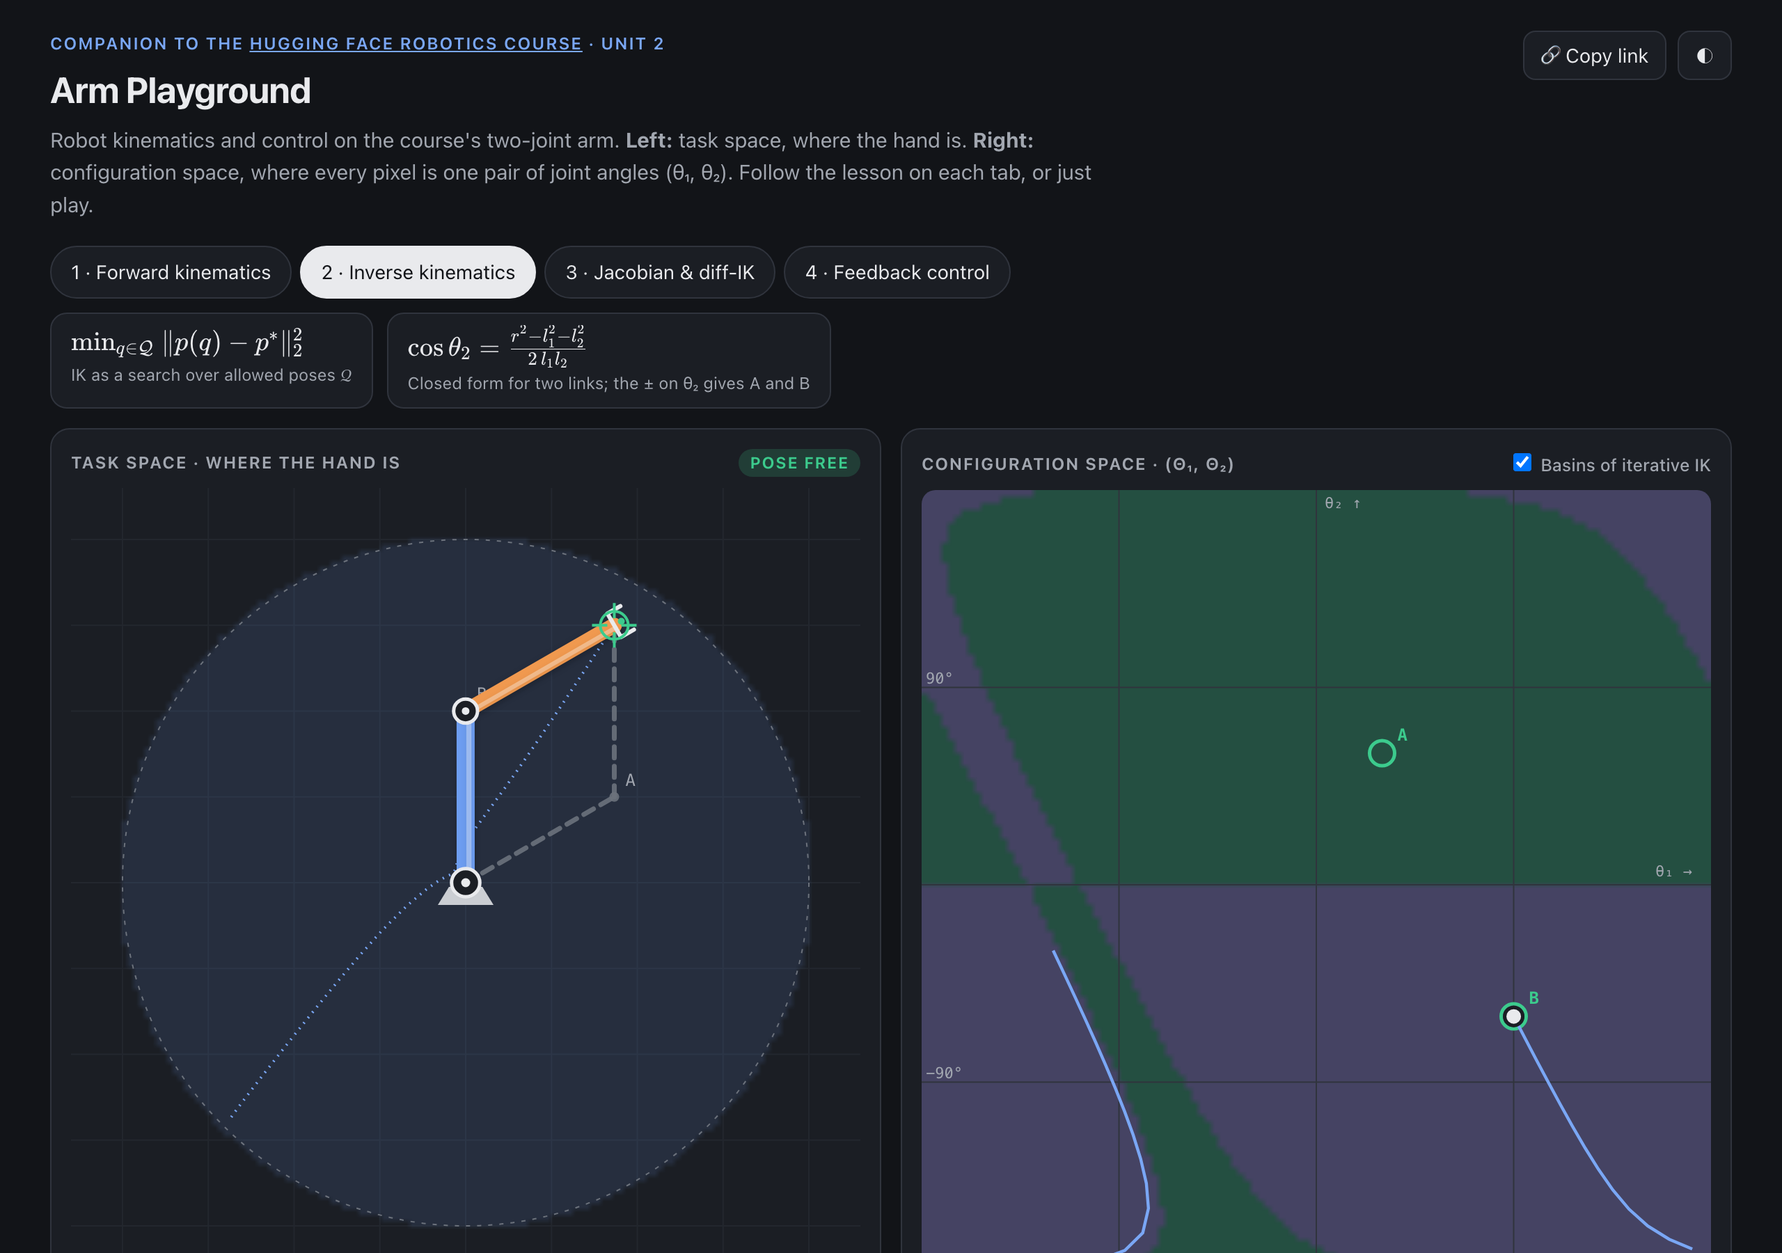
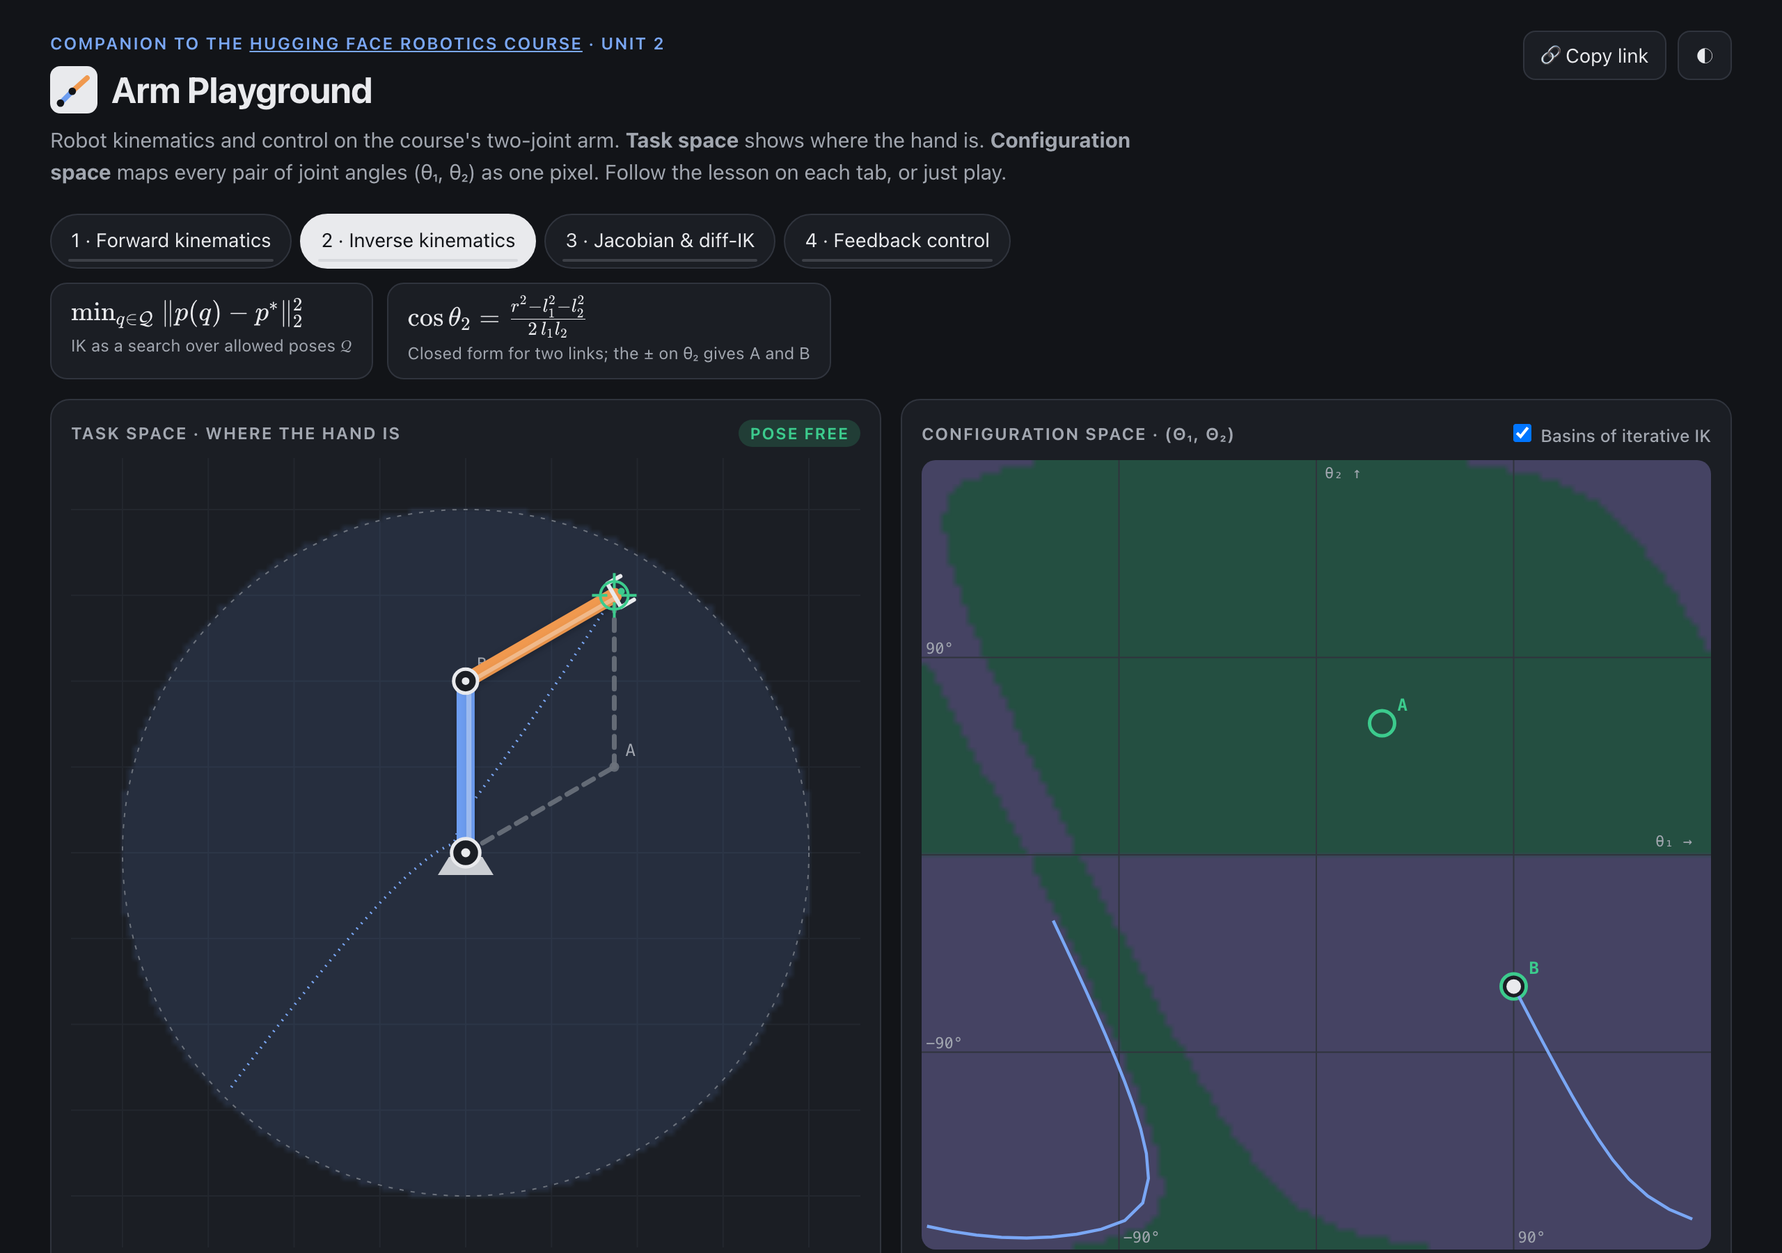
Design pass: mobile-first card order, tab progress, det J field, IK rings on the feedback map
- One CSS grid with named areas; on phones the order is arm, lesson, map,
  controls, math instead of both canvases and controls before the lesson
- Thin completion bar under each tab; arrow keys move between tabs
- Jacobian tab paints |det J| as a red field on the configuration map so
  singularities read as a gradient, not just two dashed lines
- Feedback tab shows the target's two IK solutions as rings on the map
- FK tab leaves a fading hand trail so moving one slider traces a circle
- Logo mark in the header; the arm animates awake from a folded pose on load
- Screenshots regenerated

diff --git a/index.html b/index.html
@@ -48,7 +48,8 @@ html, body { margin: 0; background: var(--bg); color: var(--ink);
 a { color: var(--accent); }
 .wrap { max-width: 1240px; margin: 0 auto; padding: 22px 16px 40px; }
 .top { display: flex; justify-content: space-between; align-items: flex-start; gap: 12px; flex-wrap: wrap; }
-.brand h1 { font-size: 26px; margin: 0; letter-spacing: -0.02em; }
+.brand h1 { font-size: 26px; margin: 0; letter-spacing: -0.02em; display: flex; align-items: center; gap: 10px; }
+.brand h1 svg { width: 34px; height: 34px; flex: none; }
 .brand .kicker { font-size: 12px; font-weight: 600; letter-spacing: 0.08em; text-transform: uppercase; color: var(--accent); margin-bottom: 4px; }
 .brand p { margin: 4px 0 0; color: var(--muted); max-width: 780px; }
 .actions { display: flex; gap: 8px; }
@@ -59,13 +60,17 @@ button:focus-visible, select:focus-visible, input:focus-visible { outline: 2px s
 button.primary { background: var(--accent); color: #fff; border-color: var(--accent); }
 button.ghost { background: transparent; }
 nav.tabs { display: flex; gap: 6px; margin: 18px 0 10px; flex-wrap: wrap; }
-nav.tabs button { border-radius: 999px; padding: 7px 14px; }
+nav.tabs button { border-radius: 999px; padding: 7px 14px 9px; position: relative; overflow: hidden; }
+nav.tabs .prog { position: absolute; left: 12px; right: 12px; bottom: 4px; height: 2px; border-radius: 2px; background: color-mix(in srgb, var(--muted) 25%, transparent); }
+nav.tabs .prog i { display: block; height: 100%; width: 0; border-radius: 2px; background: var(--ok); transition: width .3s; }
 nav.tabs button[aria-selected="true"] { background: var(--ink); color: var(--bg); border-color: var(--ink); }
 .eq { display: flex; gap: 10px; flex-wrap: wrap; margin-bottom: 14px; }
 .eqc { background: var(--panel); border: 1px solid var(--line); border-radius: 12px; padding: 8px 14px; box-shadow: var(--shadow); min-width: 0; }
 .eqc .tex { font-size: 16px; overflow-x: auto; overflow-y: hidden; }
 .eqc .gloss { font-size: 12px; color: var(--muted); margin-top: 2px; }
-.panes { display: grid; grid-template-columns: 1fr 1fr; gap: 14px; }
+.grid { display: grid; grid-template-columns: 1fr 1fr; gap: 14px; align-items: start;
+  grid-template-areas: "task cs" "lesson controls" "math controls"; }
+.area-task { grid-area: task; } .area-cs { grid-area: cs; } .area-lesson { grid-area: lesson; } .area-math { grid-area: math; } .area-controls { grid-area: controls; }
 .card { background: var(--panel); border: 1px solid var(--line); border-radius: 14px; padding: 14px; min-width: 0; box-shadow: var(--shadow); position: relative; }
 .card h2 { font-size: 12px; text-transform: uppercase; letter-spacing: 0.07em; color: var(--muted); margin: 0 0 8px; font-weight: 650; display: flex; justify-content: space-between; align-items: center; gap: 8px; }
 canvas { display: block; width: 100%; aspect-ratio: 1 / 1; touch-action: none; border-radius: 10px; }
@@ -73,8 +78,6 @@ canvas { display: block; width: 100%; aspect-ratio: 1 / 1; touch-action: none; b
 .sw { display: inline-block; width: 10px; height: 10px; border-radius: 3px; margin-right: 5px; vertical-align: -1px; border: 1px solid var(--line); }
 .tip { position: absolute; pointer-events: none; background: var(--ink); color: var(--bg); font: 12px ui-monospace, Menlo, monospace;
   padding: 4px 8px; border-radius: 6px; white-space: nowrap; z-index: 2; opacity: 0.92; }
-.lower { display: grid; grid-template-columns: 1fr 1.15fr; gap: 14px; margin-top: 14px; align-items: start; }
-.stack { display: grid; gap: 14px; min-width: 0; }
 .ctl { display: grid; grid-template-columns: 150px 1fr 64px; gap: 6px 10px; align-items: center; margin-bottom: 4px; }
 .ctl label { font-size: 13px; color: var(--muted); }
 .ctl output { font-variant-numeric: tabular-nums; font-size: 13px; text-align: right; }
@@ -124,7 +127,7 @@ footer { margin-top: 26px; color: var(--muted); font-size: 13px; display: flex; 
 .toast { position: fixed; bottom: 18px; left: 50%; transform: translateX(-50%); background: var(--ink); color: var(--bg); padding: 8px 14px; border-radius: 9px; font-size: 14px; opacity: 0; transition: opacity .2s; pointer-events: none; }
 .toast.show { opacity: 0.95; }
 @media (max-width: 900px) {
-  .panes, .lower { grid-template-columns: 1fr; }
+  .grid { grid-template-columns: 1fr; grid-template-areas: "task" "lesson" "cs" "controls" "math"; }
   .ctl { grid-template-columns: 118px 1fr 56px; }
   .eqc .tex { font-size: 14px; }
 }
@@ -135,8 +138,8 @@ footer { margin-top: 26px; color: var(--muted); font-size: 13px; display: flex; 
   <div class="top">
     <div class="brand">
       <div class="kicker">Companion to the <a href="https://huggingface.co/learn/robotics-course" target="_blank" rel="noopener">Hugging Face Robotics Course</a> · Unit 2</div>
-      <h1>Arm Playground</h1>
-      <p>Robot kinematics and control on the course's two-joint arm. <b>Left:</b> task space, where the hand is. <b>Right:</b> configuration space, where every pixel is one pair of joint angles (θ₁, θ₂). Follow the lesson on each tab, or just play.</p>
+      <h1><svg viewBox="0 0 64 64" aria-hidden="true"><rect width="64" height="64" rx="14" fill="var(--ink)"/><path d="M14 50 L30 34" stroke="var(--link1)" stroke-width="7" stroke-linecap="round"/><path d="M30 34 L50 16" stroke="var(--link2)" stroke-width="7" stroke-linecap="round"/><circle cx="14" cy="50" r="5" fill="var(--bg)"/><circle cx="30" cy="34" r="5" fill="var(--bg)"/></svg>Arm Playground</h1>
+      <p>Robot kinematics and control on the course's two-joint arm. <b>Task space</b> shows where the hand is. <b>Configuration space</b> maps every pair of joint angles (θ₁, θ₂) as one pixel. Follow the lesson on each tab, or just play.</p>
     </div>
     <div class="actions">
       <button id="copy" title="Copy a link to exactly this setup">🔗 Copy link</button>
@@ -145,21 +148,21 @@ footer { margin-top: 26px; color: var(--muted); font-size: 13px; display: flex; 
   </div>
 
   <nav class="tabs" role="tablist" aria-label="Topics">
-    <button role="tab" data-tab="fk">1 · Forward kinematics</button>
-    <button role="tab" data-tab="ik">2 · Inverse kinematics</button>
-    <button role="tab" data-tab="jac">3 · Jacobian &amp; diff-IK</button>
-    <button role="tab" data-tab="fb">4 · Feedback control</button>
+    <button role="tab" data-tab="fk">1 · Forward kinematics<span class="prog"><i></i></span></button>
+    <button role="tab" data-tab="ik">2 · Inverse kinematics<span class="prog"><i></i></span></button>
+    <button role="tab" data-tab="jac">3 · Jacobian &amp; diff-IK<span class="prog"><i></i></span></button>
+    <button role="tab" data-tab="fb">4 · Feedback control<span class="prog"><i></i></span></button>
   </nav>
 
   <div class="eq" id="eq"></div>
 
-  <div class="panes">
-    <section class="card">
+  <div class="grid">
+    <section class="card area-task">
       <h2><span>Task space · where the hand is</span><span id="taskStatus"></span></h2>
       <canvas id="task" aria-label="Task space view of the arm"></canvas>
       <div class="legend" id="taskLegend"></div>
     </section>
-    <section class="card" id="csCard">
+    <section class="card area-cs" id="csCard">
       <h2><span>Configuration space · (θ₁, θ₂)</span>
         <label class="sub" id="basinWrap" style="margin:0;text-transform:none;letter-spacing:0;font-weight:500"><input type="checkbox" id="basins"> Basins of iterative IK</label></h2>
       <canvas id="cspace" aria-label="Configuration space map: click to set the pose, hover to preview"></canvas>
@@ -170,14 +173,11 @@ footer { margin-top: 26px; color: var(--muted); font-size: 13px; display: flex; 
         <span><span class="sw" style="background:var(--shelf-c)"></span>hits shelf</span>
         <span><span class="sw" style="background:var(--limit-c)"></span>past elbow limit</span>
         <span id="basinLegend" class="hidden"><span class="sw" style="background:var(--basinA)"></span>→ A <span class="sw" style="background:var(--basinB);margin-left:6px"></span>→ B</span>
+        <span id="csNote"></span>
         <span>hover = preview · click = go there</span>
       </div>
     </section>
-  </div>
-
-  <div class="lower">
-    <div class="stack">
-      <section class="card lesson" id="lesson" aria-live="polite">
+    <section class="card lesson area-lesson" id="lesson" aria-live="polite">
         <h2><span>Lesson · <span id="lsTab"></span></span><span id="lsCount"></span></h2>
         <div class="dots" id="lsDots"></div>
         <h3 id="lsTitle"></h3>
@@ -190,7 +190,7 @@ footer { margin-top: 26px; color: var(--muted); font-size: 13px; display: flex; 
         </div>
         <details class="more"><summary>More experiments for free play</summary><ol id="more"></ol></details>
       </section>
-      <section class="card">
+      <section class="card area-math">
         <h2>The math, live</h2>
         <div class="math" id="math"></div>
         <div data-panel="fb">
@@ -198,9 +198,8 @@ footer { margin-top: 26px; color: var(--muted); font-size: 13px; display: flex; 
           <canvas id="bars" aria-label="Discrete error sequence"></canvas>
         </div>
       </section>
-    </div>
 
-    <section class="card">
+    <section class="card area-controls">
       <h2>Controls</h2>
       <div class="checks">
         <label><input type="checkbox" id="floor"> Floor</label>
@@ -299,7 +298,7 @@ const S = {
   tab: "fk", l1: 1, l2: 1, lim: 180, floor: false, shelf: false, showReach: true, basins: false,
   q: [rad(30), rad(60)], target: [0.866, 1.5],
   pdes: [0.1, 0], inv: "damped", lam: 0.1, runJ: false, keys: {},
-  anim: null, wiggle: null, iter: null, hoverQ: null,
+  anim: null, wiggle: null, iter: null, hoverQ: null, fkTrail: [],
   fb: { kp: 4, rate: 50, lat: 0, merr: 0, qmax: 8, ff: true, path: "step", running: true,
         t: 0, q: null, qdot: [0, 0], nextCtl: 0, hist: [], qbuf: [], trail: [], qtrail: [], drag: [0.5, 1.2], lastHist: 0,
         stepInfo: null, lastStep: null, switches: [] },
@@ -550,6 +549,13 @@ function drawTask() {
 
   if (S.tab === "fk") {
     const { e, h } = fk(q);
+    // fading trail of where the hand has been: moving one slider traces a circle around that joint
+    const tr = S.fkTrail, lastP = tr[tr.length - 1];
+    if (!lastP || Math.hypot(h[0] - lastP[0], h[1] - lastP[1]) > 0.004) { tr.push(h); if (tr.length > 160) tr.shift(); }
+    if (tr.length > 1) { ctx.save(); ctx.lineCap = "round"; ctx.lineWidth = 2.5;
+      for (let i = 1; i < tr.length; i++) { ctx.globalAlpha = 0.5 * i / tr.length; ctx.strokeStyle = css("--link2");
+        ctx.beginPath(); ctx.moveTo(t.x(tr[i - 1][0]), t.y(tr[i - 1][1])); ctx.lineTo(t.x(tr[i][0]), t.y(tr[i][1])); ctx.stroke(); }
+      ctx.restore(); }
     ctx.save(); ctx.strokeStyle = css("--ghost"); ctx.setLineDash([2, 4]); ctx.lineWidth = 1;
     ctx.beginPath(); ctx.moveTo(t.x(h[0]), t.y(h[1])); ctx.lineTo(t.x(h[0]), t.y(0)); ctx.moveTo(t.x(h[0]), t.y(h[1])); ctx.lineTo(t.x(0), t.y(h[1])); ctx.stroke(); ctx.restore();
     drawArm(ctx, t, q, badArm);
@@ -558,7 +564,7 @@ function drawTask() {
     arrow(ctx, t.x(e[0]), t.y(e[1]), t.x(h[0]), t.y(h[1]), css("--link2"), 1.6, 8);
     drawAngles(ctx, t, q);
     label(ctx, t.x(h[0]) + 12, t.y(h[1]) - 12, `p = (${f2(h[0])}, ${f2(h[1])})`, null, true);
-    legend.push(sw("--link1", "link 1 at θ₁"), sw("--link2", "link 2 at θ₁+θ₂"), "grey dashes: θ₂ is measured from link 1's direction");
+    legend.push(sw("--link1", "link 1 at θ₁"), sw("--link2", "link 2 at θ₁+θ₂ · fading trail = where the hand has been"), "grey dashes: θ₂ is measured from link 1's direction");
   } else if (S.tab === "ik") {
     const res = ik(S.target), valid = res.sols.map((s) => status(s) === 0);
     res.sols.forEach((s, k) => { if (!sameQ(s, q)) drawArm(ctx, t, s, { dash: [8, 6], color: valid[k] ? css("--ghost") : css("--bad") });
@@ -607,7 +613,11 @@ function drawCS() {
   ctx.font = "11px ui-monospace, Menlo, monospace"; ctx.fillStyle = css("--muted");
   ctx.fillText("θ₁ →", w - 40, Y(0) - 6); ctx.fillText("θ₂ ↑", X(0) + 6, 13);
   for (const d of [-90, 90]) { ctx.fillText(d + "°", X(rad(d)) + 3, w - 5); ctx.fillText(d + "°", 3, Y(rad(d)) - 3); }
-  if (S.tab === "jac") { ctx.save(); ctx.strokeStyle = css("--bad"); ctx.setLineDash([6, 4]); ctx.lineWidth = 1.6;
+  if (S.tab === "jac") { // |det J| = l1 l2 |sin θ2| depends only on θ2: paint it as a vertical field, strongest where the arm is straight or folded
+    const [r, g, b] = hexToRgb(css("--bad")), grad = ctx.createLinearGradient(0, 0, 0, w);
+    for (let d = -180; d <= 180; d += 4) { const a = 0.42 * Math.pow(1 - Math.abs(Math.sin(rad(d))), 3); grad.addColorStop((180 - d) / 360, `rgba(${r},${g},${b},${a.toFixed(3)})`); }
+    ctx.fillStyle = grad; ctx.fillRect(0, 0, w, w);
+    ctx.save(); ctx.strokeStyle = css("--bad"); ctx.setLineDash([6, 4]); ctx.lineWidth = 1.6;
     for (const d of [0, -179.5, 179.5]) { ctx.beginPath(); ctx.moveTo(0, Y(rad(d))); ctx.lineTo(w, Y(rad(d))); ctx.stroke(); }
     ctx.restore(); ctx.fillStyle = css("--bad"); ctx.fillText("det J = 0 (arm straight)", 6, Y(0) + 14); ctx.fillText("det J = 0 (folded)", 6, 26); }
   if (S.tab === "ik") {
@@ -615,7 +625,11 @@ function drawCS() {
       ctx.beginPath(); ctx.arc(X(s[0]), Y(s[1]), 9, 0, 7); ctx.stroke(); ctx.fillStyle = ctx.strokeStyle; ctx.font = "bold 12px ui-monospace, Menlo, monospace"; ctx.fillText(k ? "B" : "A", X(s[0]) + 11, Y(s[1]) - 9); });
     if (S.iter && S.iter.path.length > 1) polyQ(ctx, S.iter.path, X, Y, w, css("--accent"), 2.2);
   }
-  if (S.tab === "fb" && S.fb.qtrail.length) polyQ(ctx, S.fb.qtrail, X, Y, w, css("--link2"), 1.6, 0.7);
+  if (S.tab === "fb") { // where the controller "should" end up: the two IK solutions of the current target
+    if (S.fb.qtrail.length) polyQ(ctx, S.fb.qtrail, X, Y, w, css("--link2"), 1.6, 0.7);
+    ctx.save(); ctx.strokeStyle = css("--target"); ctx.lineWidth = 2; ctx.setLineDash([3, 3]);
+    for (const s of ik(targetAt(S.fb.t).p).sols) { ctx.beginPath(); ctx.arc(X(s[0]), Y(s[1]), 9, 0, 7); ctx.stroke(); } ctx.restore();
+  }
   if (S.hoverQ) { ctx.save(); ctx.strokeStyle = css("--ink"); ctx.globalAlpha = 0.35; ctx.setLineDash([2, 3]);
     ctx.beginPath(); ctx.moveTo(X(S.hoverQ[0]), 0); ctx.lineTo(X(S.hoverQ[0]), w); ctx.moveTo(0, Y(S.hoverQ[1])); ctx.lineTo(w, Y(S.hoverQ[1])); ctx.stroke(); ctx.restore(); }
   const q = shownQ();
@@ -879,7 +893,7 @@ function renderLesson(apply) {
   $("lsDots").innerHTML = list.map((_, k) => `<button aria-label="Step ${k + 1}" class="${k === i ? "cur" : DONE[S.tab + k] ? "done" : ""}" data-k="${k}"></button>`).join("");
   $("lsDots").querySelectorAll("button").forEach((b) => b.addEventListener("click", () => { LS[S.tab] = +b.dataset.k; store.set("ls", LS); renderLesson(true); }));
   $("lsPrev").disabled = i === 0; $("lsNext").textContent = i === list.length - 1 ? "Done ✓" : "Next →";
-  $("more").innerHTML = MORE[S.tab].map((x) => `<li>${x}</li>`).join("");
+  $("more").innerHTML = MORE[S.tab].map((x) => `<li>${x}</li>`).join(""); syncTabProgress();
   const A = st.ask, box = $("lsAsk");
   if (!A) box.innerHTML = "";
   else if (A.type === "num") {
@@ -887,7 +901,7 @@ function renderLesson(apply) {
     const check = (reveal) => { const v = parseFloat($("ansIn").value), ok = !reveal && Math.abs(v - A.a) <= A.tol;
       $("ansFb").className = "fb " + (ok ? "good" : reveal ? "" : "no");
       $("ansFb").innerHTML = (ok ? "✓ Right." : reveal ? `Answer: <b>${A.a}</b>.` : isNaN(v) ? "Type a number first." : `Not quite. Try again, or show the answer.`) + (ok || reveal ? `<span class="why">${A.why}</span>` : "");
-      if (ok || reveal) { DONE[S.tab + i] = 1; store.set("done", DONE); if (A.after) applySetup(A.after); } };
+      if (ok || reveal) { DONE[S.tab + i] = 1; store.set("done", DONE); syncTabProgress(); if (A.after) applySetup(A.after); } };
     $("ansBtn").onclick = () => check(false); $("ansShow").onclick = () => check(true);
     $("ansIn").addEventListener("keydown", (e) => { if (e.key === "Enter") check(false); });
   } else {
@@ -896,7 +910,7 @@ function renderLesson(apply) {
       const k = +b.dataset.k, ok = k === A.a; b.classList.add(ok ? "right" : "wrong");
       $("ansFb").className = "fb " + (ok ? "good" : "no");
       $("ansFb").innerHTML = ok ? `✓ Right.<span class="why">${A.why}</span>` : "Not that one. Try another.";
-      if (ok) { DONE[S.tab + i] = 1; store.set("done", DONE); if (A.after) applySetup(A.after); } }));
+      if (ok) { DONE[S.tab + i] = 1; store.set("done", DONE); syncTabProgress(); if (A.after) applySetup(A.after); } }));
   }
   if (apply) applySetup(stepSetup(S.tab, i));
 }
@@ -948,8 +962,14 @@ function outputs() {
   const F = S.fb; $("kpo").textContent = F.kp.toFixed(1); $("rateo").textContent = F.rate; $("lato").textContent = F.lat;
   $("merro").textContent = (F.merr > 0 ? "+" : "") + F.merr + "%"; $("qmaxo").textContent = F.qmax.toFixed(1); syncSliders();
 }
+const CS_NOTE = { fk: "", ik: "rings: the two IK solutions of the target", jac: "red field: |det J| shrinking toward a singularity", fb: "dashed rings: IK solutions of the moving target" };
+function syncTabProgress() {
+  document.querySelectorAll("nav.tabs button").forEach((b) => { const tab = b.dataset.tab, n = L[tab].length; let done = 0; for (let k = 0; k < n; k++) if (DONE[tab + k]) done++;
+    b.querySelector(".prog i").style.width = (100 * done / n) + "%"; b.title = `${done} of ${n} steps done`; });
+}
 function setTab(tab, apply = true) {
-  S.tab = tab; document.querySelectorAll("nav.tabs button").forEach((b) => b.setAttribute("aria-selected", b.dataset.tab === tab));
+  S.tab = tab; document.querySelectorAll("nav.tabs button").forEach((b) => { b.setAttribute("aria-selected", b.dataset.tab === tab); b.tabIndex = b.dataset.tab === tab ? 0 : -1; });
+  $("csNote").textContent = CS_NOTE[tab]; S.fkTrail = [];
   document.querySelectorAll("[data-panel]").forEach((el) => el.classList.toggle("hidden", !el.dataset.panel.split(" ").includes(tab)));
   S.runJ = false; syncRunJ(); S.iter = null; S.hoverQ = null; S.keys = {}; S.wiggle = null; syncBasinsUI();
   renderEq(); renderLesson(apply); if (tab === "fb") resetFB();
@@ -959,6 +979,11 @@ function syncRunJ() { $("runJ").textContent = S.runJ ? "⏸ Stop" : "▶ Run dif
 function syncBasinsUI() { $("basinWrap").classList.toggle("hidden", S.tab !== "ik"); $("basinLegend").classList.toggle("hidden", !(S.tab === "ik" && S.basins)); }
 let toastT = 0; function toast(msg) { const el = $("toast"); el.textContent = msg; el.classList.add("show"); clearTimeout(toastT); toastT = setTimeout(() => el.classList.remove("show"), 2600); }
 document.querySelectorAll("nav.tabs button").forEach((b) => b.addEventListener("click", () => setTab(b.dataset.tab)));
+document.querySelector("nav.tabs").addEventListener("keydown", (e) => { // roving tabs: ← → between topics
+  const d = e.key === "ArrowRight" ? 1 : e.key === "ArrowLeft" ? -1 : 0; if (!d) return;
+  e.preventDefault(); e.stopPropagation(); const next = TABS[(TABS.indexOf(S.tab) + d + TABS.length) % TABS.length];
+  setTab(next); document.querySelector(`nav.tabs button[data-tab=${next}]`).focus();
+});
 $("floor").addEventListener("change", (e) => { S.floor = e.target.checked; rebuildWorld(); });
 $("shelf").addEventListener("change", (e) => { S.shelf = e.target.checked; rebuildWorld(); });
 $("reach").addEventListener("change", (e) => { S.showReach = e.target.checked; });
@@ -1047,6 +1072,7 @@ $("copy").onclick = async () => {
   const hsh = readHash(), tab = hsh.tab || store.get("tab", "fk");
   if (hsh.step != null) LS[tab] = clamp(hsh.step, 0, L[tab].length - 1);
   const deep = Object.keys(hsh.s).length > 0;
+  if (!deep && tab !== "fb") S.q = [rad(-100), rad(160)]; // start folded: the lesson's own setup animates the arm awake
   setTab(tab, !deep); if (deep) applySetup(hsh.s, false);
   if (hsh.theme === "light" || hsh.theme === "dark") { document.documentElement.dataset.theme = hsh.theme; rebuildWorld(); }
   if (hsh.solve === 2 && tab === "ik") { // instant: run the whole iterative solve now (used for screenshots)
